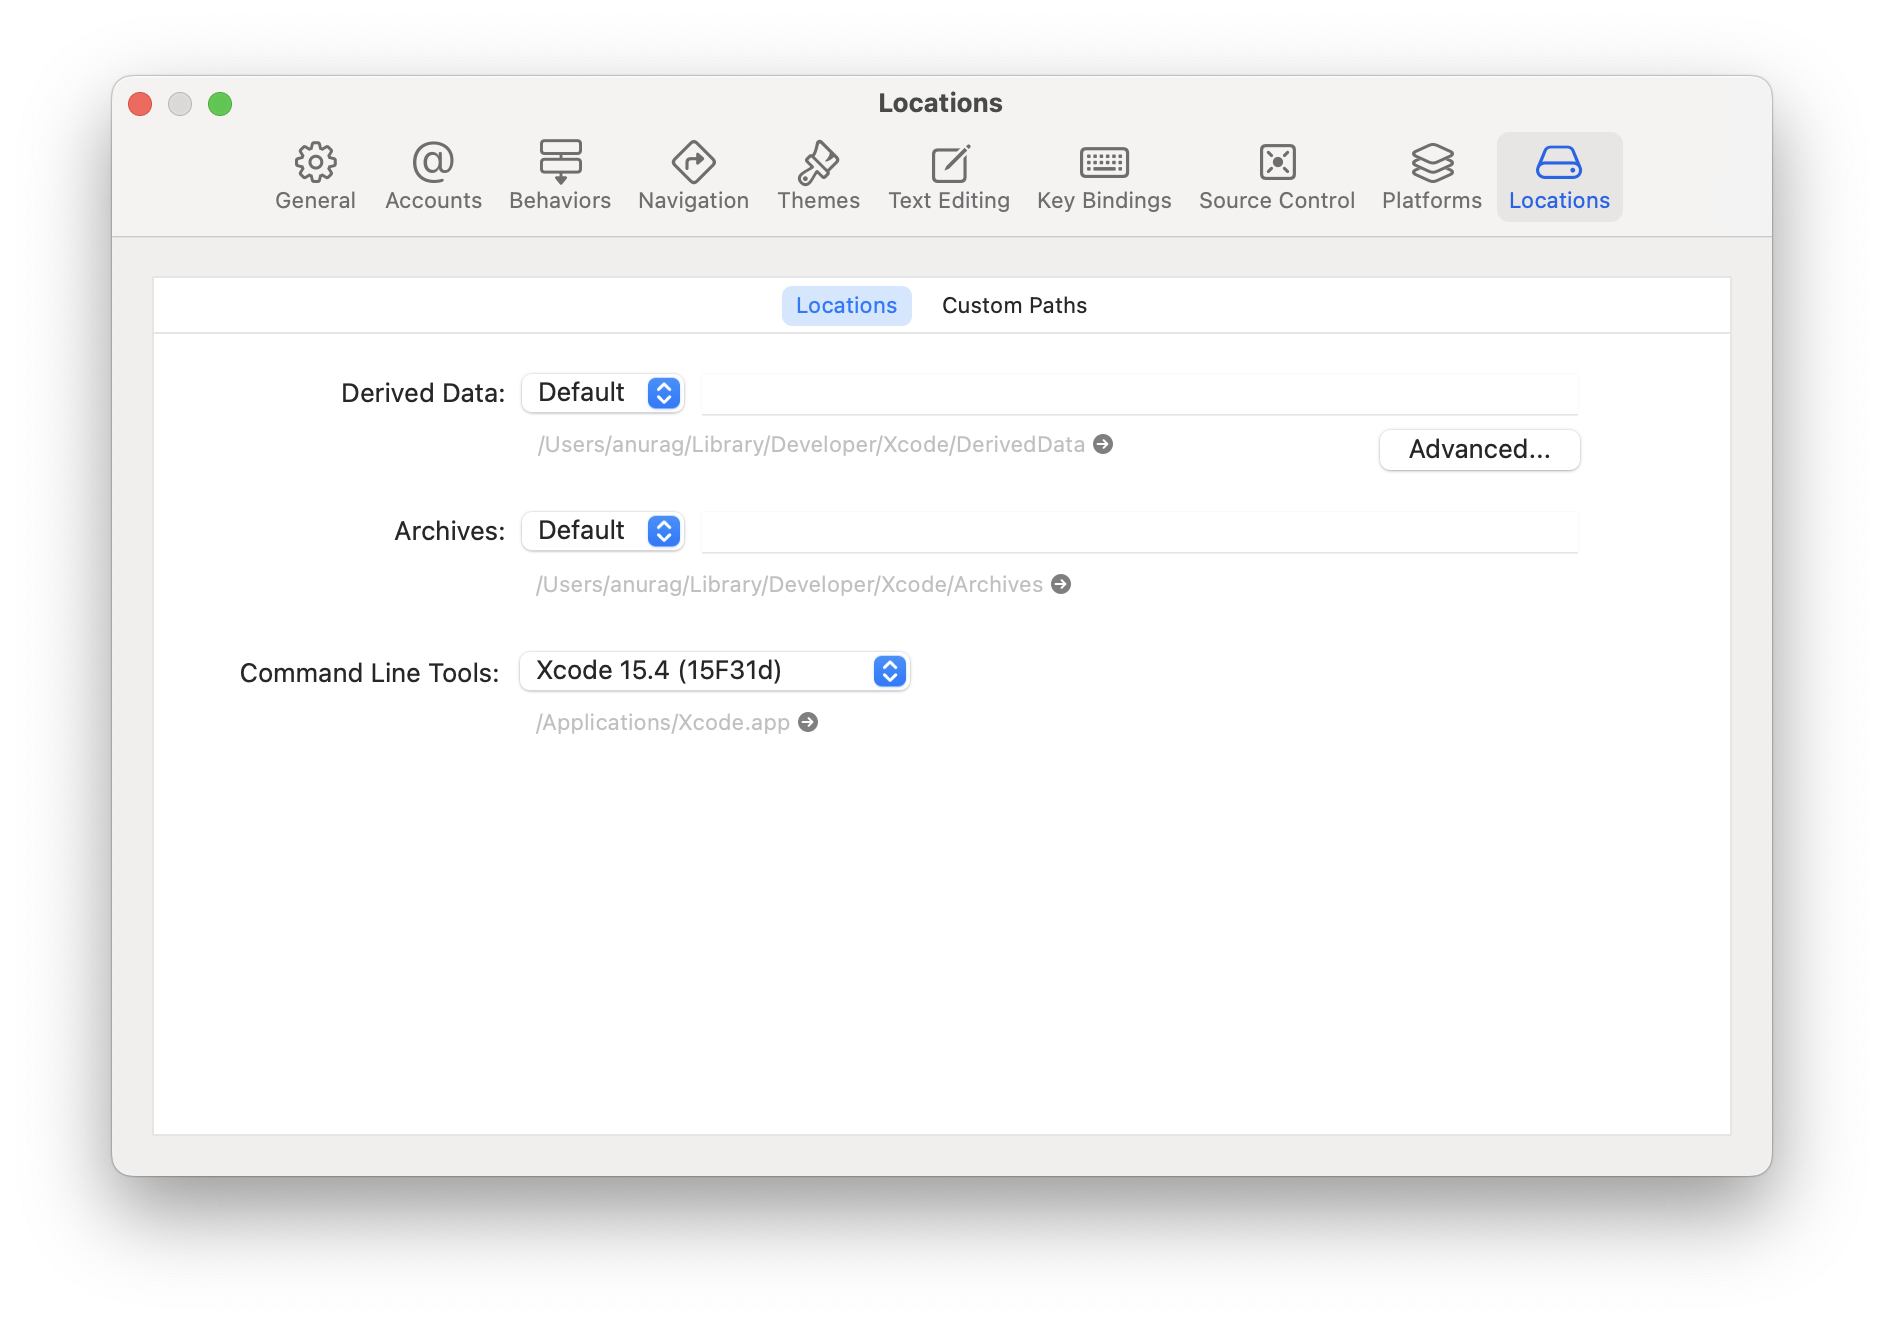
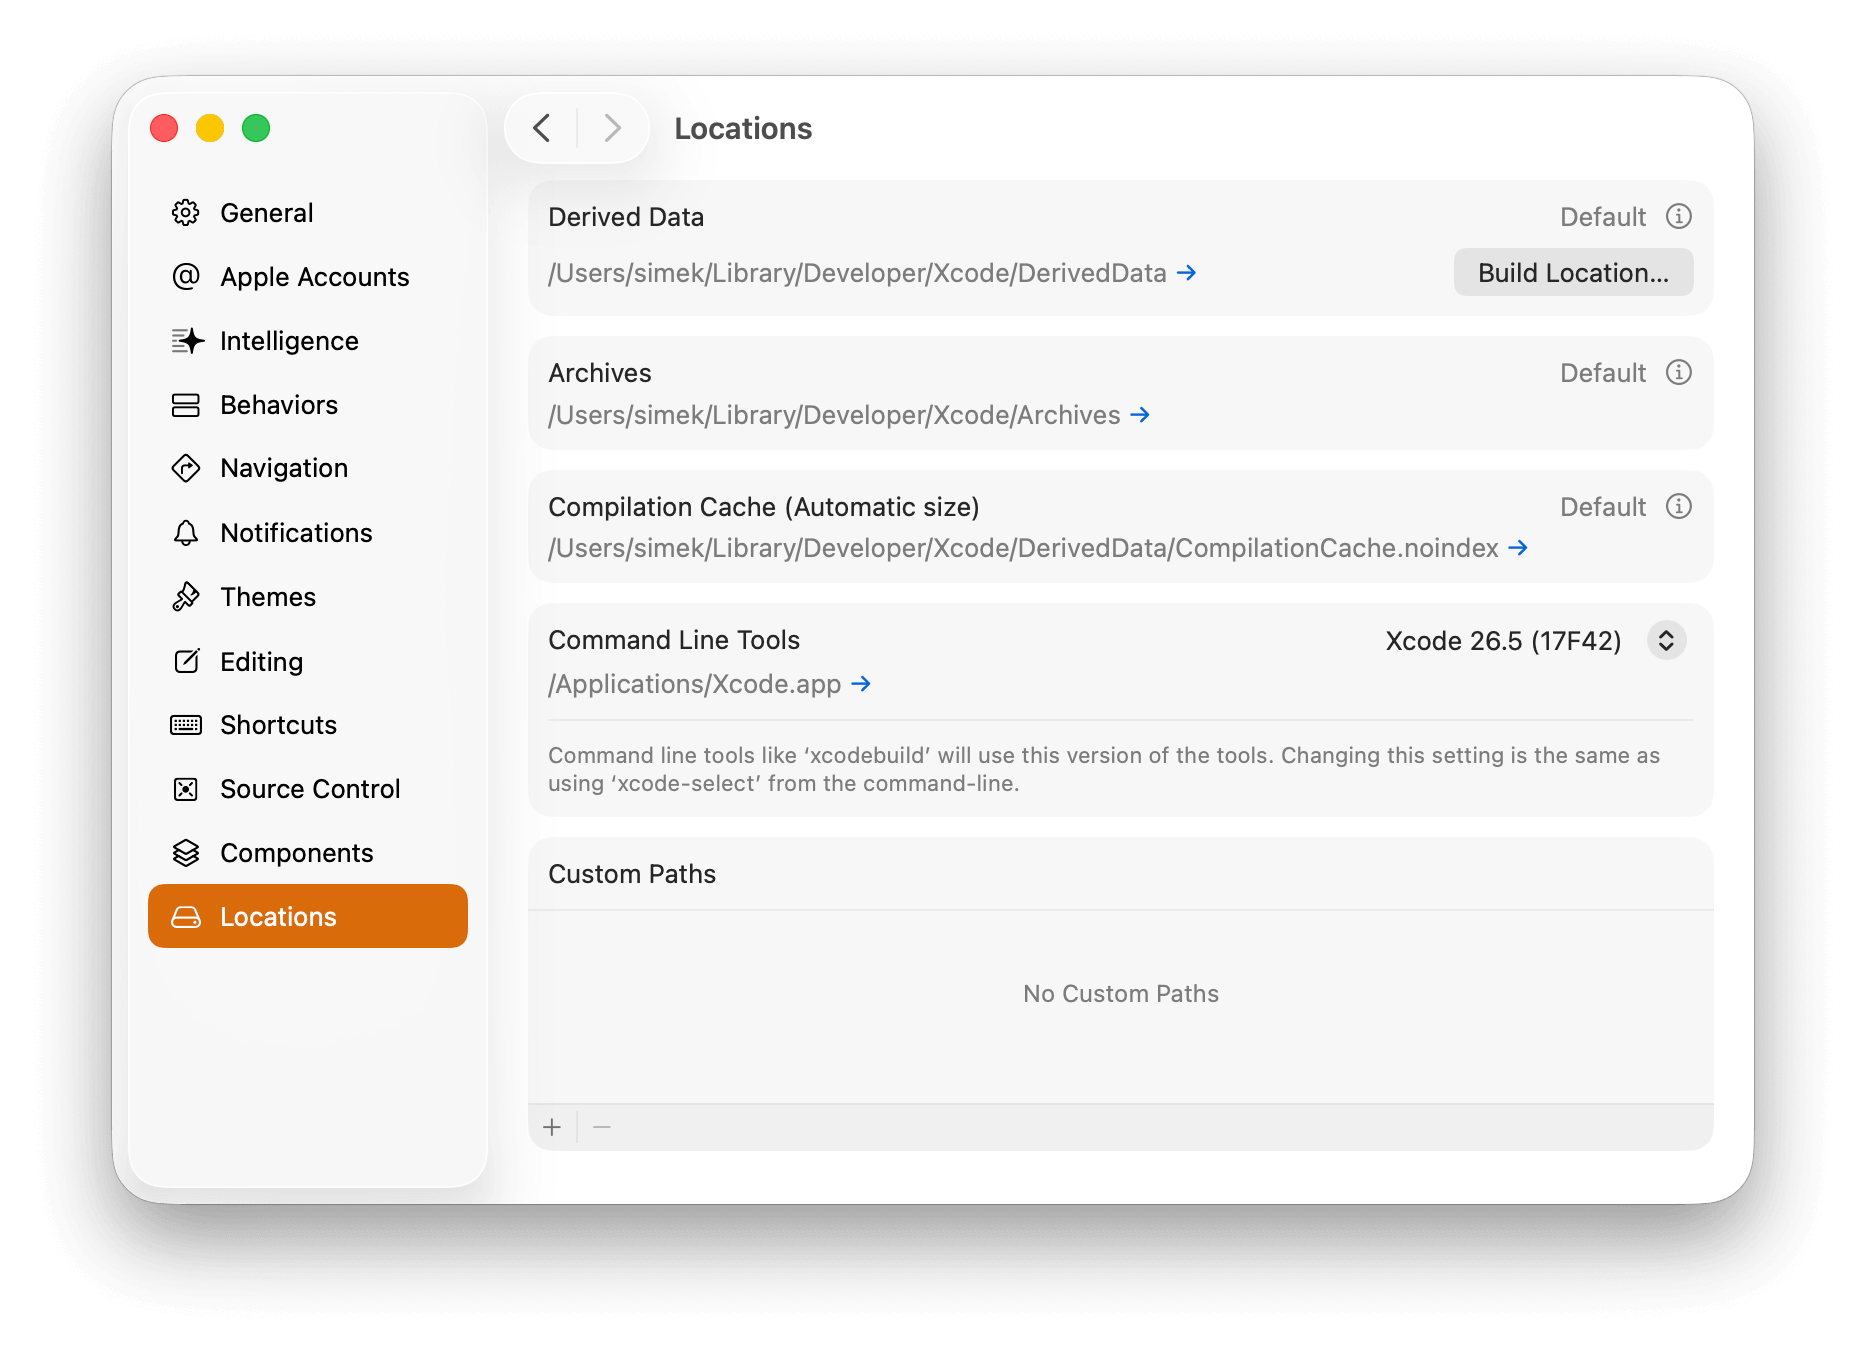
update few Xcode related screenshots, add dark theme images

diff --git a/docs/publishing-to-app-store.md b/docs/publishing-to-app-store.md
@@ -3,6 +3,8 @@ id: publishing-to-app-store
 title: Publishing to Apple App Store
 ---
 
+import ThemedImage from '@theme/ThemedImage';
+
 The publishing process is the same as any other native iOS app, with some additional considerations to take into account.
 
 :::info
@@ -13,9 +15,15 @@ If you are using Expo, read the Expo guide for [Deploying to App Stores](https:/
 
 Building an app for distribution in the App Store requires using the `Release` scheme in Xcode. Apps built for `Release` will automatically disable the in-app Dev Menu, which will prevent your users from inadvertently accessing the menu in production. It will also bundle the JavaScript locally, so you can put the app on a device and test whilst not connected to the computer.
 
-To configure your app to be built using the `Release` scheme, go to **Product** → **Scheme** → **Edit Scheme**. Select the **Run** tab in the sidebar, then set the Build Configuration dropdown to `Release`.
+To configure your app to be built using the `Release` scheme, go to **Product** → **Scheme** → **Edit Scheme**. Select the **Run** tab in the sidebar, then set the **Build Configuration** dropdown to `Release`.
 
-![](/docs/assets/ConfigureReleaseScheme.png)
+<ThemedImage
+alt="Xcode Release Scheme configuration"
+sources={{
+    light: '/docs/assets/ConfigureReleaseScheme.png',
+    dark: '/docs/assets/ConfigureReleaseSchemeDark.png',
+  }}
+/>
 
 #### Pro Tips
 

diff --git a/website/versioned_docs/version-0.77/publishing-to-app-store.md b/website/versioned_docs/version-0.77/publishing-to-app-store.md
@@ -3,6 +3,8 @@ id: publishing-to-app-store
 title: Publishing to Apple App Store
 ---
 
+import ThemedImage from '@theme/ThemedImage';
+
 The publishing process is the same as any other native iOS app, with some additional considerations to take into account.
 
 :::info
@@ -13,9 +15,15 @@ If you are using Expo, read the Expo guide for [Deploying to App Stores](https:/
 
 Building an app for distribution in the App Store requires using the `Release` scheme in Xcode. Apps built for `Release` will automatically disable the in-app Dev Menu, which will prevent your users from inadvertently accessing the menu in production. It will also bundle the JavaScript locally, so you can put the app on a device and test whilst not connected to the computer.
 
-To configure your app to be built using the `Release` scheme, go to **Product** → **Scheme** → **Edit Scheme**. Select the **Run** tab in the sidebar, then set the Build Configuration dropdown to `Release`.
+To configure your app to be built using the `Release` scheme, go to **Product** → **Scheme** → **Edit Scheme**. Select the **Run** tab in the sidebar, then set the **Build Configuration** dropdown to `Release`.
 
-![](/docs/assets/ConfigureReleaseScheme.png)
+<ThemedImage
+alt="Docusaurus themed image"
+sources={{
+    light: '/docs/assets/ConfigureReleaseScheme.png',
+    dark: '/docs/assets/ConfigureReleaseSchemeDark.png',
+  }}
+/>
 
 #### Pro Tips
 

diff --git a/website/versioned_docs/version-0.78/publishing-to-app-store.md b/website/versioned_docs/version-0.78/publishing-to-app-store.md
@@ -3,6 +3,8 @@ id: publishing-to-app-store
 title: Publishing to Apple App Store
 ---
 
+import ThemedImage from '@theme/ThemedImage';
+
 The publishing process is the same as any other native iOS app, with some additional considerations to take into account.
 
 :::info
@@ -13,9 +15,15 @@ If you are using Expo, read the Expo guide for [Deploying to App Stores](https:/
 
 Building an app for distribution in the App Store requires using the `Release` scheme in Xcode. Apps built for `Release` will automatically disable the in-app Dev Menu, which will prevent your users from inadvertently accessing the menu in production. It will also bundle the JavaScript locally, so you can put the app on a device and test whilst not connected to the computer.
 
-To configure your app to be built using the `Release` scheme, go to **Product** → **Scheme** → **Edit Scheme**. Select the **Run** tab in the sidebar, then set the Build Configuration dropdown to `Release`.
+To configure your app to be built using the `Release` scheme, go to **Product** → **Scheme** → **Edit Scheme**. Select the **Run** tab in the sidebar, then set the **Build Configuration** dropdown to `Release`.
 
-![](/docs/assets/ConfigureReleaseScheme.png)
+<ThemedImage
+alt="Docusaurus themed image"
+sources={{
+    light: '/docs/assets/ConfigureReleaseScheme.png',
+    dark: '/docs/assets/ConfigureReleaseSchemeDark.png',
+  }}
+/>
 
 #### Pro Tips
 

diff --git a/website/versioned_docs/version-0.79/publishing-to-app-store.md b/website/versioned_docs/version-0.79/publishing-to-app-store.md
@@ -3,6 +3,8 @@ id: publishing-to-app-store
 title: Publishing to Apple App Store
 ---
 
+import ThemedImage from '@theme/ThemedImage';
+
 The publishing process is the same as any other native iOS app, with some additional considerations to take into account.
 
 :::info
@@ -13,9 +15,15 @@ If you are using Expo, read the Expo guide for [Deploying to App Stores](https:/
 
 Building an app for distribution in the App Store requires using the `Release` scheme in Xcode. Apps built for `Release` will automatically disable the in-app Dev Menu, which will prevent your users from inadvertently accessing the menu in production. It will also bundle the JavaScript locally, so you can put the app on a device and test whilst not connected to the computer.
 
-To configure your app to be built using the `Release` scheme, go to **Product** → **Scheme** → **Edit Scheme**. Select the **Run** tab in the sidebar, then set the Build Configuration dropdown to `Release`.
+To configure your app to be built using the `Release` scheme, go to **Product** → **Scheme** → **Edit Scheme**. Select the **Run** tab in the sidebar, then set the **Build Configuration** dropdown to `Release`.
 
-![](/docs/assets/ConfigureReleaseScheme.png)
+<ThemedImage
+alt="Docusaurus themed image"
+sources={{
+    light: '/docs/assets/ConfigureReleaseScheme.png',
+    dark: '/docs/assets/ConfigureReleaseSchemeDark.png',
+  }}
+/>
 
 #### Pro Tips
 

diff --git a/website/versioned_docs/version-0.80/publishing-to-app-store.md b/website/versioned_docs/version-0.80/publishing-to-app-store.md
@@ -3,6 +3,8 @@ id: publishing-to-app-store
 title: Publishing to Apple App Store
 ---
 
+import ThemedImage from '@theme/ThemedImage';
+
 The publishing process is the same as any other native iOS app, with some additional considerations to take into account.
 
 :::info
@@ -13,9 +15,15 @@ If you are using Expo, read the Expo guide for [Deploying to App Stores](https:/
 
 Building an app for distribution in the App Store requires using the `Release` scheme in Xcode. Apps built for `Release` will automatically disable the in-app Dev Menu, which will prevent your users from inadvertently accessing the menu in production. It will also bundle the JavaScript locally, so you can put the app on a device and test whilst not connected to the computer.
 
-To configure your app to be built using the `Release` scheme, go to **Product** → **Scheme** → **Edit Scheme**. Select the **Run** tab in the sidebar, then set the Build Configuration dropdown to `Release`.
+To configure your app to be built using the `Release` scheme, go to **Product** → **Scheme** → **Edit Scheme**. Select the **Run** tab in the sidebar, then set the **Build Configuration** dropdown to `Release`.
 
-![](/docs/assets/ConfigureReleaseScheme.png)
+<ThemedImage
+alt="Docusaurus themed image"
+sources={{
+    light: '/docs/assets/ConfigureReleaseScheme.png',
+    dark: '/docs/assets/ConfigureReleaseSchemeDark.png',
+  }}
+/>
 
 #### Pro Tips
 

diff --git a/website/versioned_docs/version-0.81/publishing-to-app-store.md b/website/versioned_docs/version-0.81/publishing-to-app-store.md
@@ -3,6 +3,8 @@ id: publishing-to-app-store
 title: Publishing to Apple App Store
 ---
 
+import ThemedImage from '@theme/ThemedImage';
+
 The publishing process is the same as any other native iOS app, with some additional considerations to take into account.
 
 :::info
@@ -13,9 +15,15 @@ If you are using Expo, read the Expo guide for [Deploying to App Stores](https:/
 
 Building an app for distribution in the App Store requires using the `Release` scheme in Xcode. Apps built for `Release` will automatically disable the in-app Dev Menu, which will prevent your users from inadvertently accessing the menu in production. It will also bundle the JavaScript locally, so you can put the app on a device and test whilst not connected to the computer.
 
-To configure your app to be built using the `Release` scheme, go to **Product** → **Scheme** → **Edit Scheme**. Select the **Run** tab in the sidebar, then set the Build Configuration dropdown to `Release`.
+To configure your app to be built using the `Release` scheme, go to **Product** → **Scheme** → **Edit Scheme**. Select the **Run** tab in the sidebar, then set the **Build Configuration** dropdown to `Release`.
 
-![](/docs/assets/ConfigureReleaseScheme.png)
+<ThemedImage
+alt="Docusaurus themed image"
+sources={{
+    light: '/docs/assets/ConfigureReleaseScheme.png',
+    dark: '/docs/assets/ConfigureReleaseSchemeDark.png',
+  }}
+/>
 
 #### Pro Tips
 

diff --git a/website/versioned_docs/version-0.82/publishing-to-app-store.md b/website/versioned_docs/version-0.82/publishing-to-app-store.md
@@ -3,6 +3,8 @@ id: publishing-to-app-store
 title: Publishing to Apple App Store
 ---
 
+import ThemedImage from '@theme/ThemedImage';
+
 The publishing process is the same as any other native iOS app, with some additional considerations to take into account.
 
 :::info
@@ -13,9 +15,15 @@ If you are using Expo, read the Expo guide for [Deploying to App Stores](https:/
 
 Building an app for distribution in the App Store requires using the `Release` scheme in Xcode. Apps built for `Release` will automatically disable the in-app Dev Menu, which will prevent your users from inadvertently accessing the menu in production. It will also bundle the JavaScript locally, so you can put the app on a device and test whilst not connected to the computer.
 
-To configure your app to be built using the `Release` scheme, go to **Product** → **Scheme** → **Edit Scheme**. Select the **Run** tab in the sidebar, then set the Build Configuration dropdown to `Release`.
+To configure your app to be built using the `Release` scheme, go to **Product** → **Scheme** → **Edit Scheme**. Select the **Run** tab in the sidebar, then set the **Build Configuration** dropdown to `Release`.
 
-![](/docs/assets/ConfigureReleaseScheme.png)
+<ThemedImage
+alt="Docusaurus themed image"
+sources={{
+    light: '/docs/assets/ConfigureReleaseScheme.png',
+    dark: '/docs/assets/ConfigureReleaseSchemeDark.png',
+  }}
+/>
 
 #### Pro Tips
 

diff --git a/website/versioned_docs/version-0.83/publishing-to-app-store.md b/website/versioned_docs/version-0.83/publishing-to-app-store.md
@@ -3,6 +3,8 @@ id: publishing-to-app-store
 title: Publishing to Apple App Store
 ---
 
+import ThemedImage from '@theme/ThemedImage';
+
 The publishing process is the same as any other native iOS app, with some additional considerations to take into account.
 
 :::info
@@ -13,9 +15,15 @@ If you are using Expo, read the Expo guide for [Deploying to App Stores](https:/
 
 Building an app for distribution in the App Store requires using the `Release` scheme in Xcode. Apps built for `Release` will automatically disable the in-app Dev Menu, which will prevent your users from inadvertently accessing the menu in production. It will also bundle the JavaScript locally, so you can put the app on a device and test whilst not connected to the computer.
 
-To configure your app to be built using the `Release` scheme, go to **Product** → **Scheme** → **Edit Scheme**. Select the **Run** tab in the sidebar, then set the Build Configuration dropdown to `Release`.
+To configure your app to be built using the `Release` scheme, go to **Product** → **Scheme** → **Edit Scheme**. Select the **Run** tab in the sidebar, then set the **Build Configuration** dropdown to `Release`.
 
-![](/docs/assets/ConfigureReleaseScheme.png)
+<ThemedImage
+alt="Docusaurus themed image"
+sources={{
+    light: '/docs/assets/ConfigureReleaseScheme.png',
+    dark: '/docs/assets/ConfigureReleaseSchemeDark.png',
+  }}
+/>
 
 #### Pro Tips
 

diff --git a/website/versioned_docs/version-0.84/publishing-to-app-store.md b/website/versioned_docs/version-0.84/publishing-to-app-store.md
@@ -3,6 +3,8 @@ id: publishing-to-app-store
 title: Publishing to Apple App Store
 ---
 
+import ThemedImage from '@theme/ThemedImage';
+
 The publishing process is the same as any other native iOS app, with some additional considerations to take into account.
 
 :::info
@@ -13,9 +15,15 @@ If you are using Expo, read the Expo guide for [Deploying to App Stores](https:/
 
 Building an app for distribution in the App Store requires using the `Release` scheme in Xcode. Apps built for `Release` will automatically disable the in-app Dev Menu, which will prevent your users from inadvertently accessing the menu in production. It will also bundle the JavaScript locally, so you can put the app on a device and test whilst not connected to the computer.
 
-To configure your app to be built using the `Release` scheme, go to **Product** → **Scheme** → **Edit Scheme**. Select the **Run** tab in the sidebar, then set the Build Configuration dropdown to `Release`.
+To configure your app to be built using the `Release` scheme, go to **Product** → **Scheme** → **Edit Scheme**. Select the **Run** tab in the sidebar, then set the **Build Configuration** dropdown to `Release`.
 
-![](/docs/assets/ConfigureReleaseScheme.png)
+<ThemedImage
+alt="Docusaurus themed image"
+sources={{
+    light: '/docs/assets/ConfigureReleaseScheme.png',
+    dark: '/docs/assets/ConfigureReleaseSchemeDark.png',
+  }}
+/>
 
 #### Pro Tips
 

diff --git a/website/versioned_docs/version-0.85/publishing-to-app-store.md b/website/versioned_docs/version-0.85/publishing-to-app-store.md
@@ -3,6 +3,8 @@ id: publishing-to-app-store
 title: Publishing to Apple App Store
 ---
 
+import ThemedImage from '@theme/ThemedImage';
+
 The publishing process is the same as any other native iOS app, with some additional considerations to take into account.
 
 :::info
@@ -13,9 +15,15 @@ If you are using Expo, read the Expo guide for [Deploying to App Stores](https:/
 
 Building an app for distribution in the App Store requires using the `Release` scheme in Xcode. Apps built for `Release` will automatically disable the in-app Dev Menu, which will prevent your users from inadvertently accessing the menu in production. It will also bundle the JavaScript locally, so you can put the app on a device and test whilst not connected to the computer.
 
-To configure your app to be built using the `Release` scheme, go to **Product** → **Scheme** → **Edit Scheme**. Select the **Run** tab in the sidebar, then set the Build Configuration dropdown to `Release`.
+To configure your app to be built using the `Release` scheme, go to **Product** → **Scheme** → **Edit Scheme**. Select the **Run** tab in the sidebar, then set the **Build Configuration** dropdown to `Release`.
 
-![](/docs/assets/ConfigureReleaseScheme.png)
+<ThemedImage
+alt="Docusaurus themed image"
+sources={{
+    light: '/docs/assets/ConfigureReleaseScheme.png',
+    dark: '/docs/assets/ConfigureReleaseSchemeDark.png',
+  }}
+/>
 
 #### Pro Tips
 

diff --git a/website/versioned_docs/version-0.86/publishing-to-app-store.md b/website/versioned_docs/version-0.86/publishing-to-app-store.md
@@ -3,6 +3,8 @@ id: publishing-to-app-store
 title: Publishing to Apple App Store
 ---
 
+import ThemedImage from '@theme/ThemedImage';
+
 The publishing process is the same as any other native iOS app, with some additional considerations to take into account.
 
 :::info
@@ -13,9 +15,15 @@ If you are using Expo, read the Expo guide for [Deploying to App Stores](https:/
 
 Building an app for distribution in the App Store requires using the `Release` scheme in Xcode. Apps built for `Release` will automatically disable the in-app Dev Menu, which will prevent your users from inadvertently accessing the menu in production. It will also bundle the JavaScript locally, so you can put the app on a device and test whilst not connected to the computer.
 
-To configure your app to be built using the `Release` scheme, go to **Product** → **Scheme** → **Edit Scheme**. Select the **Run** tab in the sidebar, then set the Build Configuration dropdown to `Release`.
+To configure your app to be built using the `Release` scheme, go to **Product** → **Scheme** → **Edit Scheme**. Select the **Run** tab in the sidebar, then set the **Build Configuration** dropdown to `Release`.
 
-![](/docs/assets/ConfigureReleaseScheme.png)
+<ThemedImage
+alt="Docusaurus themed image"
+sources={{
+    light: '/docs/assets/ConfigureReleaseScheme.png',
+    dark: '/docs/assets/ConfigureReleaseSchemeDark.png',
+  }}
+/>
 
 #### Pro Tips
 

diff --git a/docs/_getting-started-macos-ios.md b/docs/_getting-started-macos-ios.md
@@ -1,3 +1,5 @@
+import ThemedImage from '@theme/ThemedImage';
+
 ## Installing dependencies
 
 You will need Node, Watchman, the React Native command line interface, Xcode and CocoaPods.
@@ -27,7 +29,13 @@ The easiest way to install Xcode is via the [Mac App Store](https://itunes.apple
 
 You will also need to install the Xcode Command Line Tools. Open Xcode, then choose **Settings... (or Preferences...)** from the Xcode menu. Go to the Locations panel and install the tools by selecting the most recent version in the Command Line Tools dropdown.
 
-![Xcode Command Line Tools](/docs/assets/GettingStartedXcodeCommandLineTools.png)
+<ThemedImage
+alt="Xcode Command Line Tools configuration"
+sources={{
+    light: '/docs/assets/GettingStartedXcodeCommandLineTools.png',
+    dark: '/docs/assets/GettingStartedXcodeCommandLineToolsDark.png',
+  }}
+/>
 
 #### Installing an iOS Simulator in Xcode
 